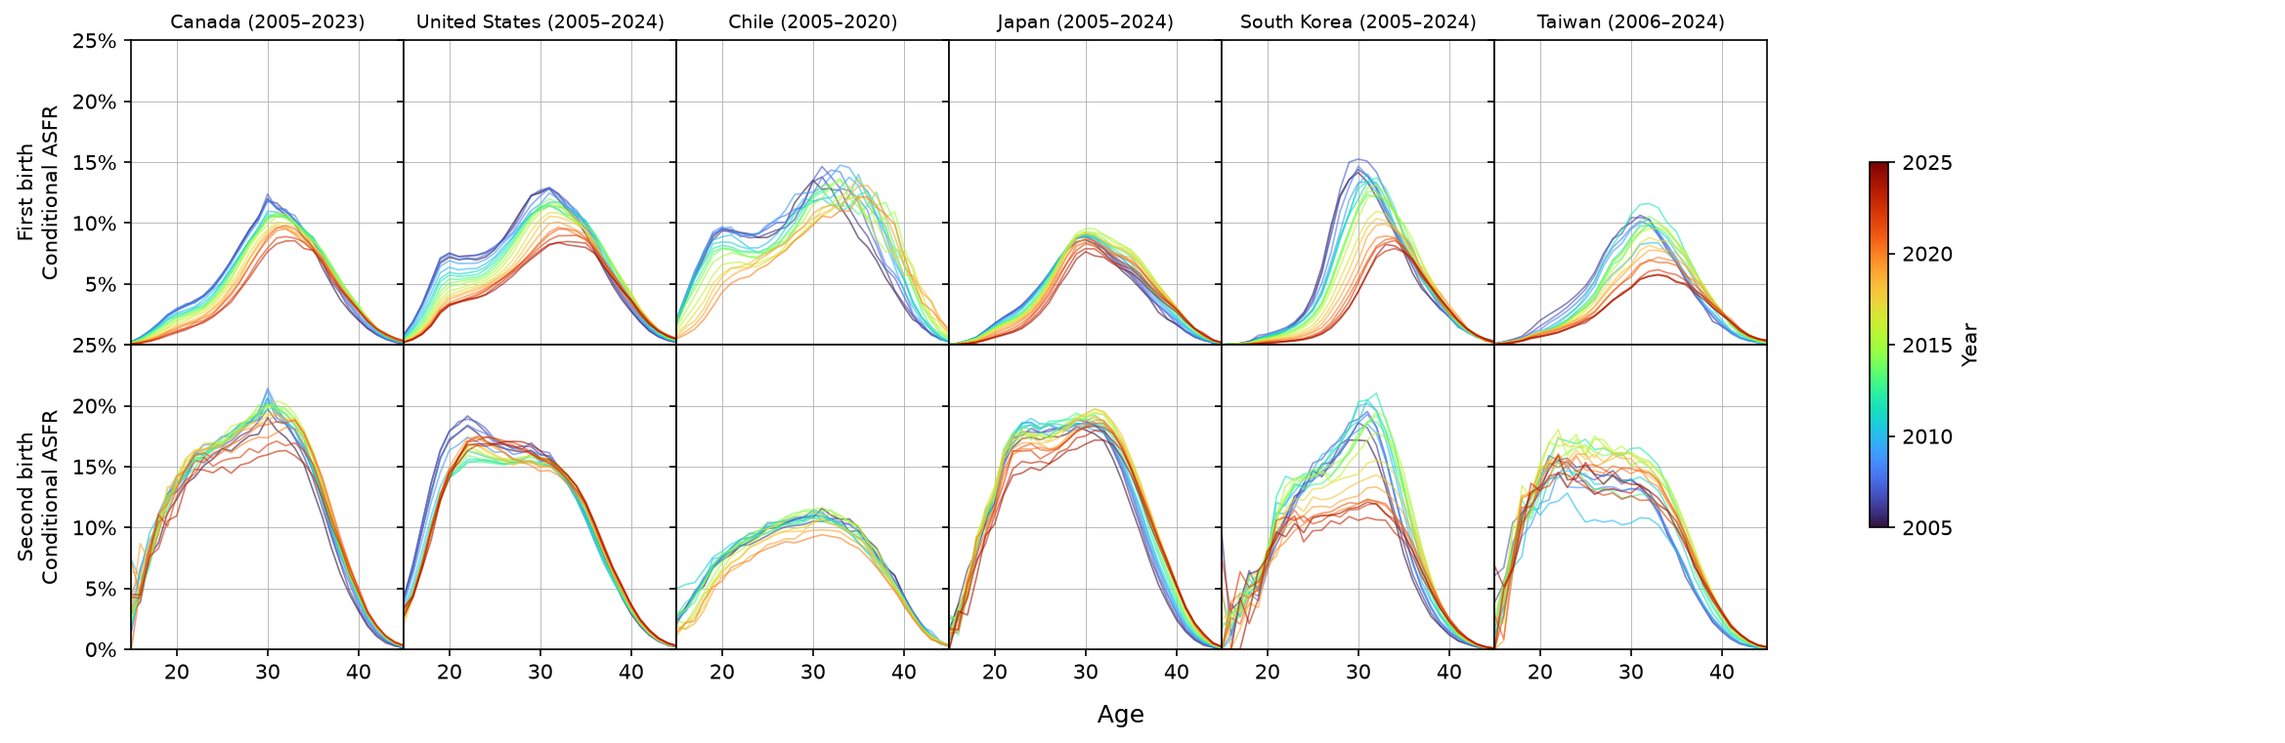
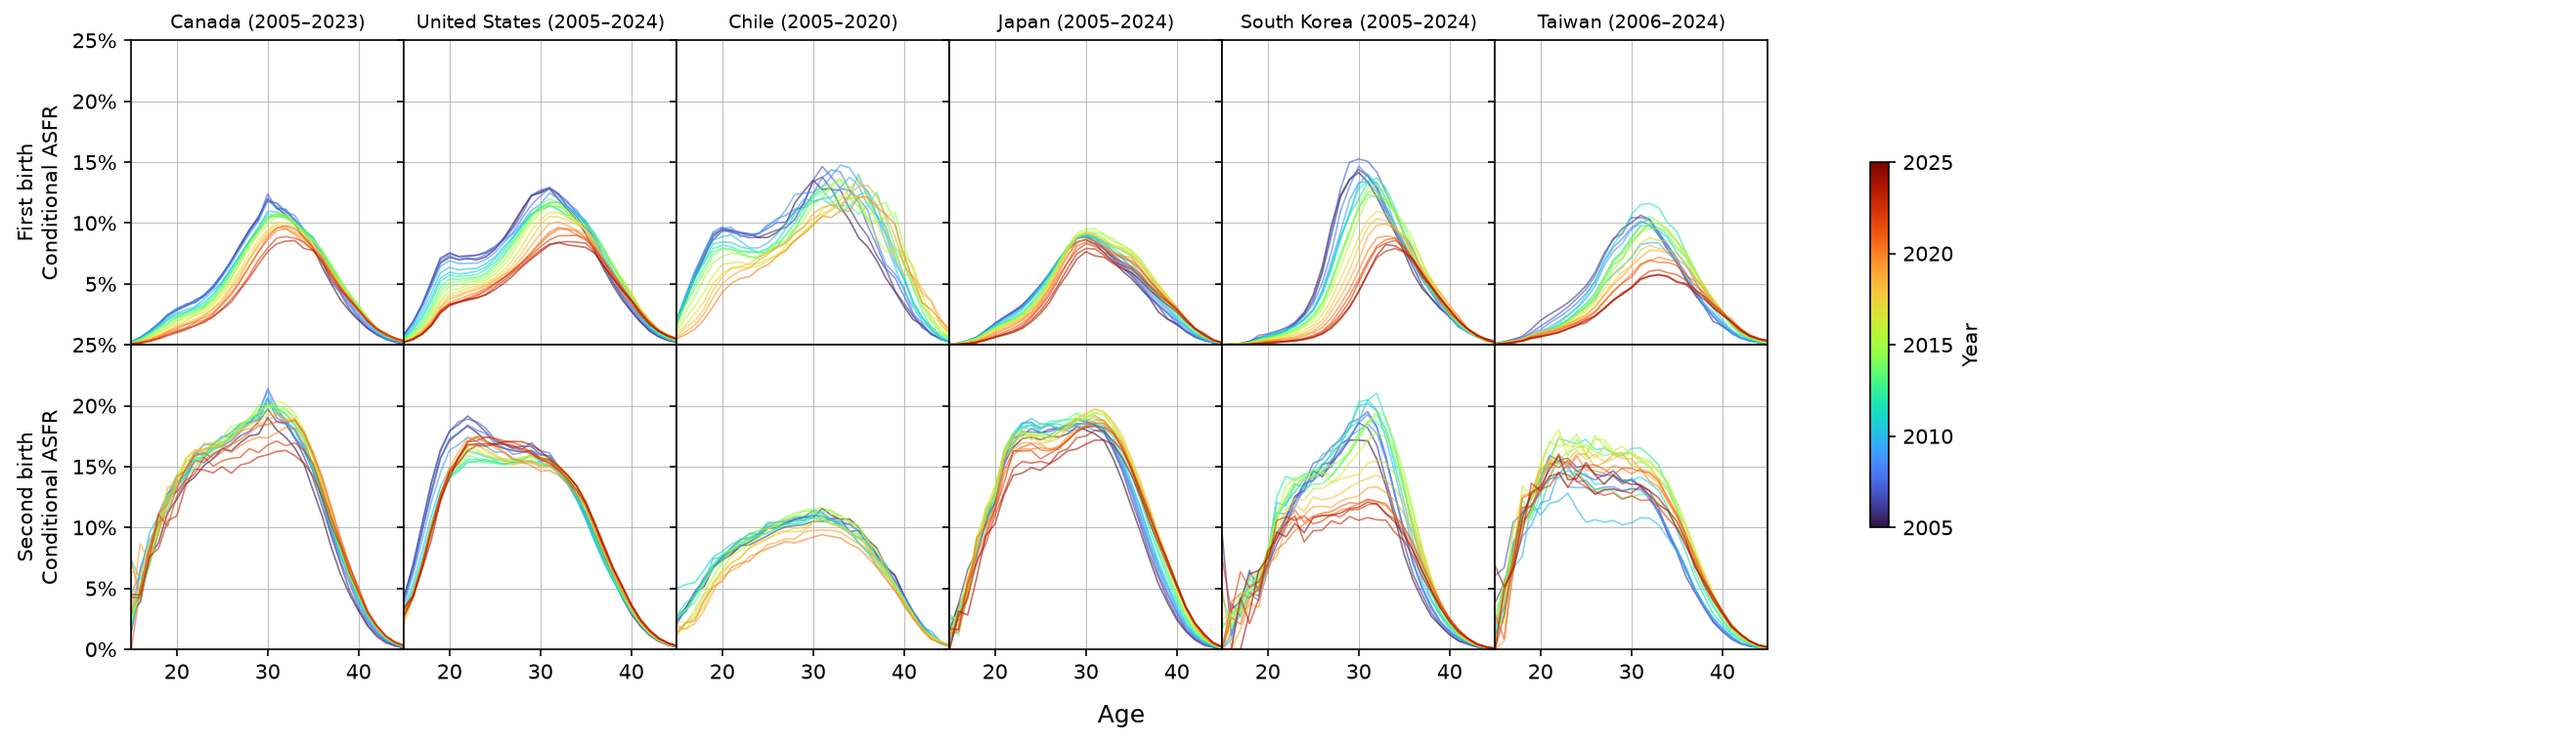
Rename Nordic to Nordic & Baltic, fold the UK into Western Europe
- HFD/scripts/country_names.py: renamed "Nordic" to "Nordic & Baltic"
  and moved Estonia/Lithuania into it from Eastern Europe; added
  "UK_ONS" to Western Europe's country list.
- HFD/scripts/cond_asfr_region_grid.py: load_data() now injects a
  synthetic "UK_ONS" code built from ONS/scripts/cond_asfr_uk_ons.py's
  reconstructed conditional ASFR (HFD has no UK tables), so it behaves
  like any other HFD country everywhere downstream (country_title,
  per-column plotting, canvas sizing) without a special case.
- ONS/scripts/cond_asfr_uk_ons.py: SOURCE now resolves relative to the
  script file rather than cwd (needed since cond_asfr_region_grid.py
  imports and calls it from HFD/, not ONS/); added load_period_rates()
  as the reusable entry point; dropped the standalone matplotlib
  column image, since the UK now renders as part of the shared Western
  Europe grid instead.
- docs/hfd/first-vs-second-birth.md: updated the ONS methodology note
  to describe "the UK column in the Western Europe tab" rather than a
  separate UK tab, and fixed the conditional-rate formulas being
  swallowed onto one line (the inner code fence was closing the outer
  note fence early — widened the note to 4 backticks).

diff --git a/ONS/scripts/cond_asfr_uk_ons.py b/ONS/scripts/cond_asfr_uk_ons.py
@@ -1,0 +1,157 @@
+"""Approximate conditional (parity-progression) ASFR for first and second
+births in England & Wales, derived from ONS Table 3 (percentage
+distribution of women by number of live-born children, by age and
+year of birth). HFD has no conditional-ASFR tables for the UK, so this
+reconstructs the equivalent from ONS's cohort parity-stock data.
+
+At each exact age, the conditional rate is estimated as a discrete hazard:
+  cond1(age) = (P1(age) - P1(age-1)) / (100 - P1(age-1))
+  cond2(age) = (P2(age) - P2(age-1)) / (P1(age-1) - P2(age-1))
+where P1/P2 are cumulative % of the cohort with >=1 / >=2 children.
+
+Plotted lines are period years (calendar year the transition occurred:
+cohort + age), filtered to MIN_PERIOD_YEAR onwards, matching HFD's chart
+convention even though the hazard itself is computed along each cohort.
+"""
+
+import pathlib
+
+import openpyxl
+import plotly.colors as pc
+import plotly.graph_objects as go
+from plotly.subplots import make_subplots
+
+# Resolved relative to this file (not cwd) so load_table3()/load_period_rates()
+# work whether this module is run directly (cwd=ONS/) or imported from
+# elsewhere (e.g. HFD/scripts/cond_asfr_region_grid.py, cwd=HFD/) to fold the
+# UK into the Western Europe region grid as an extra column.
+_SCRIPT_DIR = pathlib.Path(__file__).resolve().parent
+SOURCE = _SCRIPT_DIR.parent / "data" / "finalisingcohorttables2024finalforupload.xlsx"
+OUTPUT = "outputs/cond_asfr_uk_ons.html"
+MIN_PERIOD_YEAR = 2005
+
+
+def load_table3():
+    wb = openpyxl.load_workbook(SOURCE, read_only=True, data_only=True)
+    ws = wb["Table 3"]
+    rows = list(ws.iter_rows(values_only=True))[9:]
+
+    by_cohort = {}
+    for year, age, pct0, pct1, pct2, pct3, pct4plus, *_ in rows:
+        if year is None or age == "Final":
+            continue
+        p1 = 100 - pct0
+        p2 = pct2 + pct3 + pct4plus
+        by_cohort.setdefault(year, {})[age] = (p1, p2)
+    return by_cohort
+
+
+def conditional_rates(by_cohort):
+    """cohort -> {age: (cond1, cond2)}, skipping the first age each cohort has."""
+    result = {}
+    for cohort, ages in by_cohort.items():
+        sorted_ages = sorted(ages)
+        cohort_rates = {}
+        for prev_age, age in zip(sorted_ages, sorted_ages[1:]):
+            if age != prev_age + 1:
+                continue
+            p1_prev, p2_prev = ages[prev_age]
+            p1, p2 = ages[age]
+            childless_prev = 100 - p1_prev
+            one_child_prev = p1_prev - p2_prev
+            c1 = max(0.0, (p1 - p1_prev) / childless_prev) if childless_prev > 0 else None
+            c2 = max(0.0, (p2 - p2_prev) / one_child_prev) if one_child_prev > 0 else None
+            cohort_rates[age] = (c1, c2)
+        result[cohort] = cohort_rates
+    return result
+
+
+def to_period(rates, min_period_year):
+    """Reslice the cohort-hazard Lexis diagram into period-year lines: for
+    period year Y and age A, the transition happened to cohort (Y - A).
+    Gives one age-profile line per calendar year, like HFD's period charts,
+    even though the underlying hazard is still computed along each cohort.
+    """
+    by_period = {}
+    for cohort, ages in rates.items():
+        for age, (c1, c2) in ages.items():
+            period_year = cohort + age
+            if period_year < min_period_year:
+                continue
+            by_period.setdefault(period_year, {})[age] = (c1, c2)
+    return by_period
+
+
+def plot(by_period):
+    period_years = sorted(by_period)
+    cmap_min, cmap_max = min(period_years), max(period_years)
+
+    fig = make_subplots(rows=1, cols=2, subplot_titles=("First birth", "Second birth"))
+
+    for period_year in period_years:
+        ages = sorted(by_period[period_year])
+        cond1 = [by_period[period_year][a][0] for a in ages]
+        cond2 = [by_period[period_year][a][1] for a in ages]
+        color = _year_color(period_year, cmap_min, cmap_max)
+        fig.add_trace(
+            go.Scatter(
+                x=ages, y=[c * 100 if c is not None else None for c in cond1],
+                mode="lines", line=dict(width=1, color=color),
+                name=str(period_year), legendgroup=str(period_year), showlegend=False,
+                hovertemplate=f"Year {period_year}<br>Age %{{x}}<br>%{{y:.1f}}%<extra></extra>",
+            ),
+            row=1, col=1,
+        )
+        fig.add_trace(
+            go.Scatter(
+                x=ages, y=[c * 100 if c is not None else None for c in cond2],
+                mode="lines", line=dict(width=1, color=color),
+                name=str(period_year), legendgroup=str(period_year), showlegend=False,
+                hovertemplate=f"Year {period_year}<br>Age %{{x}}<br>%{{y:.1f}}%<extra></extra>",
+            ),
+            row=1, col=2,
+        )
+
+    # Dummy trace to show a colorbar for period year.
+    fig.add_trace(
+        go.Scatter(
+            x=[None], y=[None], mode="markers",
+            marker=dict(
+                colorscale="Turbo", cmin=cmap_min, cmax=cmap_max,
+                color=[cmap_min], showscale=True,
+                colorbar=dict(title="Year"),
+            ),
+            showlegend=False,
+        ),
+        row=1, col=2,
+    )
+
+    fig.update_xaxes(title_text="Age", range=[20, 45])
+    fig.update_yaxes(title_text="Conditional ASFR (%)", range=[0, 25])
+    fig.update_layout(
+        title="Conditional (parity-progression) ASFR, England & Wales — derived from ONS cohort table 3",
+        template="plotly_white",
+        width=1100, height=550,
+    )
+    return fig
+
+
+def _year_color(year, ymin, ymax):
+    t = 0.0 if ymax == ymin else (year - ymin) / (ymax - ymin)
+    return pc.sample_colorscale("Turbo", [t])[0]
+
+
+def load_period_rates(min_period_year=MIN_PERIOD_YEAR):
+    """{period_year: {age: (cond1, cond2)}} — the reusable entry point for
+    other scripts (see HFD/scripts/cond_asfr_region_grid.py, which folds
+    this into the Western Europe region grid as a "UK_ONS" column)."""
+    by_cohort = load_table3()
+    rates = conditional_rates(by_cohort)
+    return to_period(rates, min_period_year)
+
+
+if __name__ == "__main__":
+    by_period = load_period_rates()
+    fig = plot(by_period)
+    fig.write_html(OUTPUT, include_plotlyjs="cdn")
+    print(f"Saved {OUTPUT}")

diff --git a/HFD/scripts/country_names.py b/HFD/scripts/country_names.py
@@ -41,6 +41,11 @@ COUNTRY_NAMES = {
     "TWN": "Taiwan",
     "UKR": "Ukraine",
     "USA": "United States",
+    # Not an HFD code — a conditional-ASFR reconstruction from ONS cohort
+    # data injected into the mi.txt-derived dataframe by
+    # cond_asfr_region_grid.py (see its load_data()), since HFD itself has
+    # no conditional-ASFR tables for the UK.
+    "UK_ONS": "England & Wales",
 }
 
 
@@ -48,19 +53,23 @@ COUNTRY_NAMES = {
 # in the conditional ASFR source data (data/HFD/mi.txt). Codes in
 # COUNTRY_NAMES that aren't in that file (e.g. ITA, the GBR_* variants,
 # DEUTW/DEUTNP) are omitted here, as are DEUTE (Germany, East), RUS, BLR, UKR,
-# SVK, POL, and ISL.
+# SVK, POL, and ISL. UK_ONS is the one exception — it's not in mi.txt either,
+# but cond_asfr_region_grid.py injects it separately (see load_data()).
 #
 # Former-communist countries (Eastern Bloc / Yugoslavia) are kept in their
 # own groups, separate from non-communist countries, even where that breaks
-# from pure geography (e.g. Iberia is split out from the Balkans).
+# from pure geography (e.g. Iberia is split out from the Balkans). The
+# Baltic states are the exception — grouped with the Nordics rather than
+# Eastern Europe, matching how they're commonly discussed together
+# (Nordic-Baltic cooperation) despite their Soviet-era history.
 COUNTRY_REGIONS = {
     # Non-Europe
     "Americas & East Asia": ["CAN", "USA", "CHL", "JPN", "KOR", "TWN"],
-    # Non-communist
-    "Nordic": ["DNK", "FIN", "NOR", "SWE"],
-    "Western Europe": ["BEL", "IRL", "NLD", "AUT", "CHE", "ESP", "PRT"],
+    # Non-communist, plus the Baltics
+    "Nordic & Baltic": ["DNK", "FIN", "NOR", "SWE", "EST", "LTU"],
+    "Western Europe": ["BEL", "IRL", "NLD", "AUT", "CHE", "ESP", "PRT", "UK_ONS"],
     # Former communist
-    "Eastern Europe": ["EST", "LTU", "CZE", "HUN", "SVN", "BGR", "HRV"],
+    "Eastern Europe": ["CZE", "HUN", "SVN", "BGR", "HRV"],
 }
 
 _CODE_TO_REGION = {code: region for region, codes in COUNTRY_REGIONS.items() for code in codes}

diff --git a/HFD/scripts/cond_asfr_region_grid.py b/HFD/scripts/cond_asfr_region_grid.py
@@ -1,4 +1,6 @@
 import io
+import pathlib
+import sys
 
 import matplotlib.pyplot as plt
 import pandas as pd
@@ -6,6 +8,13 @@ from matplotlib.ticker import FixedLocator, FuncFormatter, MultipleLocator, Perc
 from PIL import Image
 
 from country_names import COUNTRY_REGIONS, country_title
+
+_REPO_ROOT = pathlib.Path(__file__).resolve().parent.parent.parent
+_ONS_SCRIPTS = _REPO_ROOT / "ONS" / "scripts"
+if str(_ONS_SCRIPTS) not in sys.path:
+    sys.path.insert(0, str(_ONS_SCRIPTS))
+
+from cond_asfr_uk_ons import load_period_rates  # noqa: E402
 
 SHARED_YLIM = (0, 0.25)
 Y_TICKS = [0.00, 0.05, 0.10, 0.15, 0.20, 0.25]
@@ -26,6 +35,18 @@ def load_data():
     )
     df["age"] = df["age"].astype(str).str.replace("-", "", regex=False).str.replace("+", "", regex=False).astype(int)
     df = df[df["year"] >= 2005]
+
+    # HFD has no conditional-ASFR tables for the UK — reconstruct it from
+    # ONS cohort data and inject as one more "code" so it behaves exactly
+    # like an HFD country everywhere else in this script (country_title,
+    # per-column plotting, canvas sizing).
+    by_period = load_period_rates()
+    uk_rows = [
+        {"code": "UK_ONS", "year": year, "age": age, "m1x": c1, "m2x": c2}
+        for year, ages in by_period.items()
+        for age, (c1, c2) in ages.items()
+    ]
+    df = pd.concat([df, pd.DataFrame(uk_rows)], ignore_index=True)
     return df
 
 

diff --git a/docs/hfd/first-vs-second-birth.md b/docs/hfd/first-vs-second-birth.md
@@ -18,3 +18,24 @@ HFD. Human Fertility Database. Max Planck Institute for Demographic Research (Ge
 and Vienna Institute of Demography (Austria). Available at [www.humanfertility.org](https://www.humanfertility.org/).
 Data downloaded on 2026-07-13.
 ```
+
+````{note}
+The UK column in the Western Europe tab is not from HFD, which has no
+conditional-ASFR tables for the UK. It is reconstructed from the Office for
+National Statistics' cohort fertility tables ("Childbearing for women born in
+different years, England and Wales"), Table 3 (percentage of women by number
+of live-born children, by age and year of birth).
+Available at [ons.gov.uk](https://www.ons.gov.uk/peoplepopulationandcommunity/birthsdeathsandmarriages/conceptionandfertilityrates/datasets/childbearingforwomenbornindifferentyearsreferencetable).
+
+At each exact age, the conditional (parity-progression) rate is estimated as a discrete
+hazard from the cumulative % of the cohort with at least 1 / at least 2 children (P1, P2):
+
+```
+cond1(age) = (P1(age) - P1(age-1)) / (100 - P1(age-1))
+cond2(age) = (P2(age) - P2(age-1)) / (P1(age-1) - P2(age-1))
+```
+
+Each line is plotted by period (calendar) year — the year the age/cohort transition
+occurred — to match HFD's chart convention, even though the hazard itself is computed
+along each birth cohort. See `ONS/scripts/cond_asfr_uk_ons.py`.
+````

diff --git a/docs/uk/scatter.md b/docs/uk/scatter.md
@@ -74,7 +74,7 @@ High housing costs correlate with lower fertility rates. This is most clearly se
 :::
 ::::
 
-The resolution foundation's report https://www.resolutionfoundation.org/publications/bye-bye-baby/ https://www.resolutionfoundation.org/app/uploads/2026/03/Bye-bye-baby.pdf has a few interesting points. 
+The Resolution Foundation's report [Bye Bye Baby](https://www.resolutionfoundation.org/publications/bye-bye-baby/) ([PDF](https://www.resolutionfoundation.org/app/uploads/2026/03/Bye-bye-baby.pdf)) has a few interesting points. 
 
 also 
 
